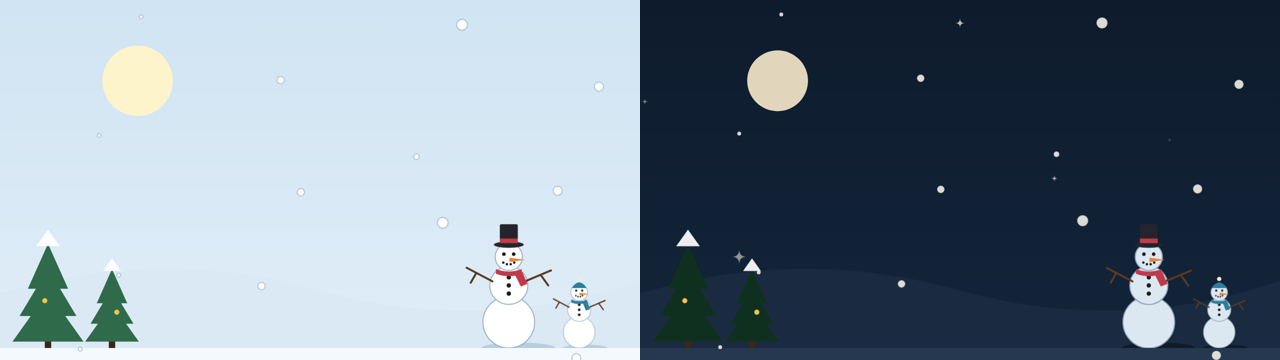
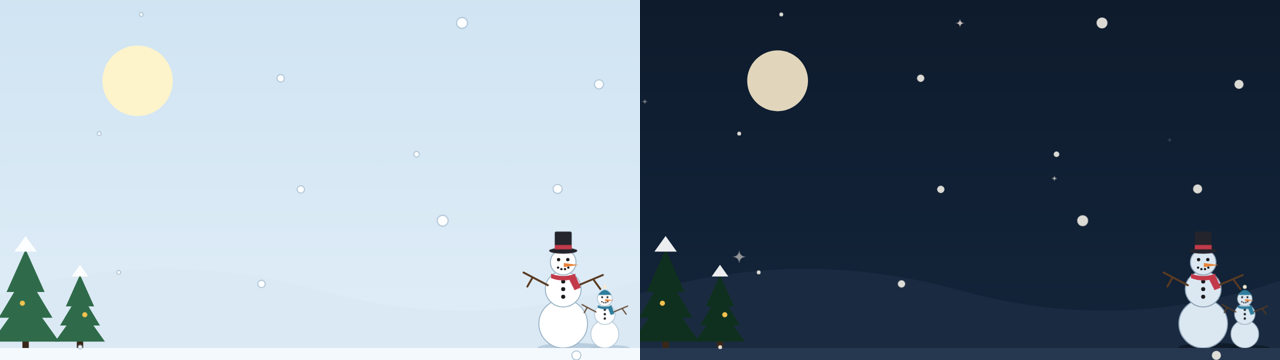
snowman-theme 0.1.2: snowmen and trees moved to the edges, outside the frosted-glass middle
Claude-Session: https://claude.ai/code/session_019US2gsjfkmf3Eo2ufavub8

diff --git a/plugins/snowman-theme/hooks/register.tsx b/plugins/snowman-theme/hooks/register.tsx
@@ -38,7 +38,8 @@ const { theme, problems } = makeColors({
 
 // The scene is drawn on a tall 400 x 800 picture. A wide window shows only its middle band (about y 290 to 510), so
 // the hill's snow line is at y 505 and everything stands in that band; a phone shows all of it. The snowmen stand at
-// the right edge and the trees at the left, where the words are not.
+// the right edge and the trees at the left, as far out as they can go, so a chat panel in the middle of a wide window
+// (which is blurred) leaves them outside the frosted glass.
 const G = 505
 
 // A snowman drawn around (0, 0) at its feet, then placed and scaled. Its colours come from CSS classes, so the
@@ -135,10 +136,10 @@ const SCENE = [
   `<g class="night">${STARS}<circle cx="86" cy="338" r="19" fill="#f3e6c8" opacity=".92"/></g>`,
   '<circle class="day" cx="86" cy="338" r="22" fill="#fff4c9" opacity=".95"/>',
   `<path class="hill" d="M0 ${G - 34} Q100 ${G - 64} 200 ${G - 36} T400 ${G - 42} L400 ${G} L0 ${G} Z"/>`,
-  fir(30, 74, 0),
-  fir(70, 56, 1),
-  snowman(318, 0.85, true, '#c23a4a', 0),
-  snowman(362, 0.52, false, '#2f7d9c', 2),
+  fir(16, 70, 0),
+  fir(50, 52, 1),
+  snowman(352, 0.8, true, '#c23a4a', 0),
+  snowman(378, 0.46, false, '#2f7d9c', 2),
   '<rect class="gnd" x="0" y="' + G + '" width="400" height="295"/>',
   FLAKES,
   '</svg>',

diff --git a/README.es.md b/README.es.md
@@ -68,7 +68,7 @@ Mods bonitas para Claude Code: cambian cómo se ve y qué muestra. Un aspecto na
 
 | Mod | Qué hace |
 |---|---|
-| `snowman-theme` | Un muñeco de nieve con chistera, bufanda roja y nariz de zanahoria, y otro pequeño con gorro de lana, en una colina nevada con abetos, bajo una nevada lenta. Sigue tu modo claro u oscuro: un día de nieve luminoso con sol, o una noche de nieve con estrellas y luna. Las bufandas ondean un poco y las estrellas parpadean. Los paneles detrás del texto son de cristal esmerilado, así que la escena se ve suavizada detrás de ellos. |
+| `snowman-theme` | Un muñeco de nieve con chistera, bufanda roja y nariz de zanahoria, y otro pequeño con gorro de lana, en una colina nevada con abetos, bajo una nevada lenta. Sigue tu modo claro u oscuro: un día de nieve luminoso con sol, o una noche de nieve con estrellas y luna. Las bufandas ondean un poco y las estrellas parpadean. Los paneles detrás del texto son de cristal esmerilado, así que la escena se ve suavizada detrás de ellos; los muñecos y los abetos están en los bordes, fuera del centro donde suele estar el panel del chat. |
 
 ### Música
 

diff --git a/README.md b/README.md
@@ -68,7 +68,7 @@ Pretty mods for Claude Code: changes to how it looks and what it shows. A Christ
 
 | Mod | What it does |
 |---|---|
-| `snowman-theme` | A snowman with a top hat, a red scarf and a carrot nose, and a small one with a woolly hat, on a snowy hill with fir trees, in slow snowfall. It follows your light or dark mode: a bright snowy day with the sun, or a snowy night with stars and the moon. The scarves flutter a little and the stars twinkle. The panels behind the text are frosted glass, so the scene is softened behind them. |
+| `snowman-theme` | A snowman with a top hat, a red scarf and a carrot nose, and a small one with a woolly hat, on a snowy hill with fir trees, in slow snowfall. It follows your light or dark mode: a bright snowy day with the sun, or a snowy night with stars and the moon. The scarves flutter a little and the stars twinkle. The panels behind the text are frosted glass, so the scene is softened behind them; the snowmen and the trees stand at the edges, outside the middle where the chat panel usually is. |
 
 ### Music
 
